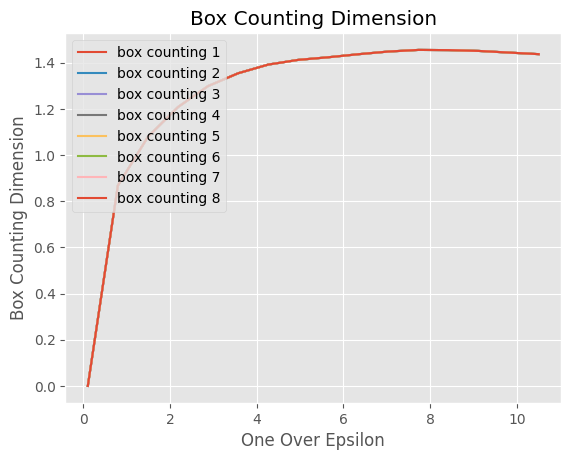
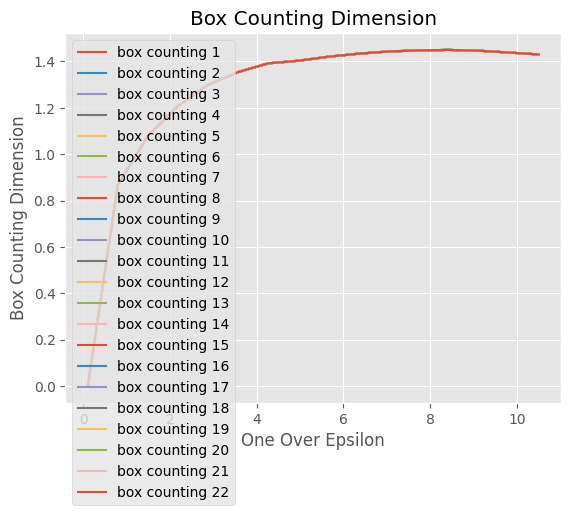
24

Changed region(s): [[0.0, 0.0, 0.9825, 0.9739]]

diff --git a/main.py b/main.py
@@ -21,13 +21,18 @@ def run_simulation(bm0: int = 0, t_max: int = 1, initial_epsilon: float = 0.9,
 
     num_steps: int = int(t_max / delta_t)
 
+    current_timestamp = 0
+
     for k in range(num_simulations):
         bms: list[float] = [0] * num_steps
         bm: float = bm0
 
         now = datetime.now()
         ts = int(now.timestamp())
-        np.random.seed(ts)
+
+        if ts != current_timestamp:
+            np.random.seed(ts)
+            current_timestamp = ts
 
         for index in range(num_steps):
             arr_step = np.random.normal(0, delta_t, 1)
@@ -71,9 +76,9 @@ def run_simulation(bm0: int = 0, t_max: int = 1, initial_epsilon: float = 0.9,
         counter += 1
 
     plt.legend(loc="upper left")
-    plt.title("Box Counting Dimension")
-    plt.xlabel("One Over Epsilon")
-    plt.ylabel("Box Counting Dimension")
+    plt.title("Brownian Motion Simulation")
+    plt.xlabel("Time")
+    plt.ylabel("Location")
     plt.savefig('brownian_motion_simulation.png', bbox_inches='tight')
     plt.close(fig=fig)
 
@@ -231,7 +236,7 @@ def calculate_box_counting(xs: list[float], box: ((float, float), (float, float)
 
 
 def main():
-    run_simulation(num_simulations=8)
+    run_simulation(num_simulations=22)
 
 
 main()
